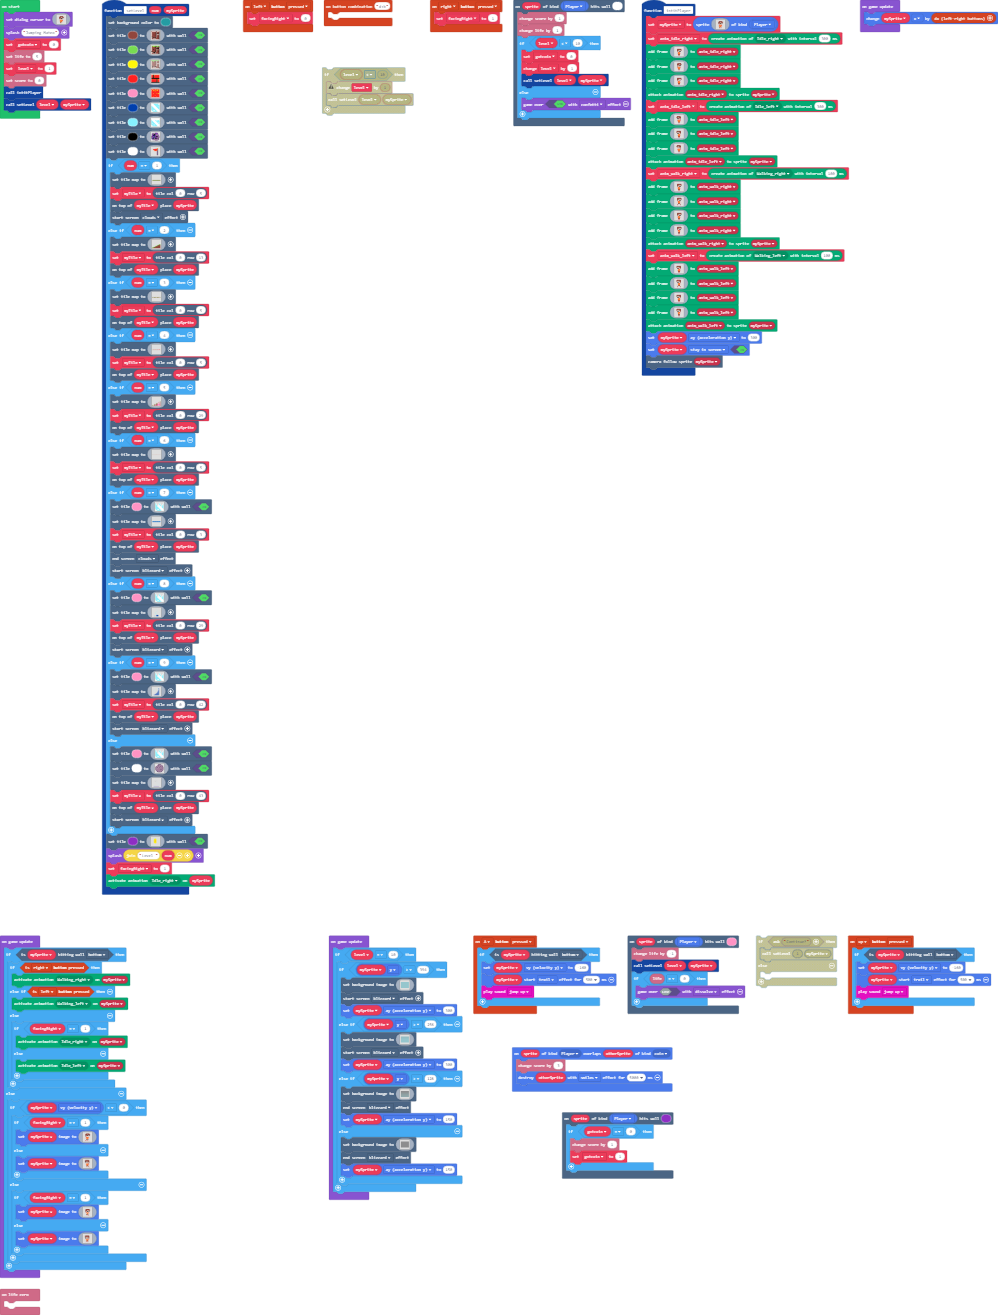
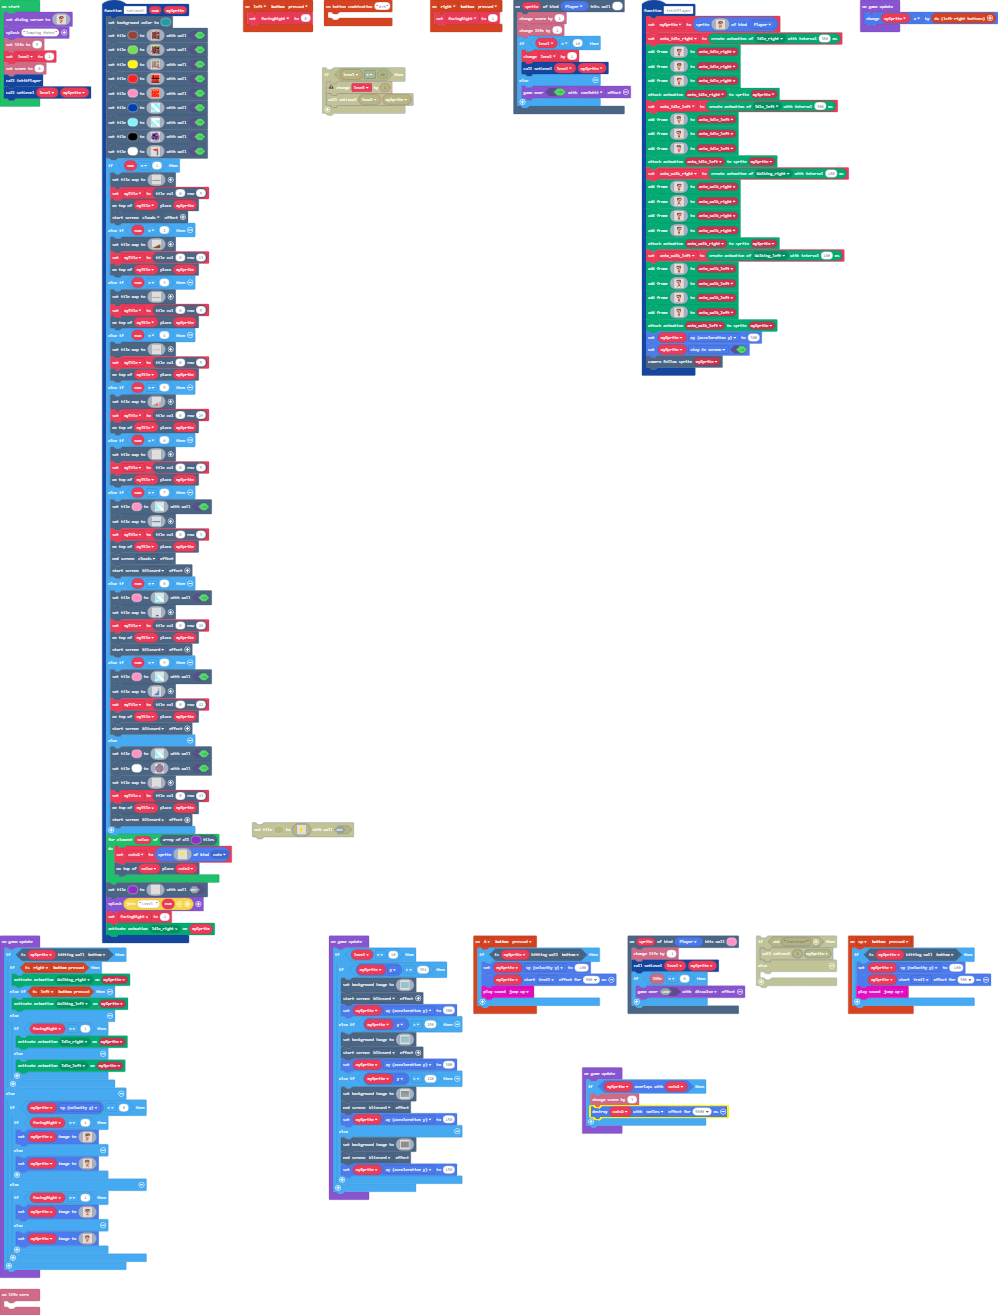
changed coin system now can add multiple coins

diff --git a/main.ts b/main.ts
@@ -543,24 +543,45 @@ c b b b b b b b b c b c b b b c
         myTile.place(mySprite)
         effects.blizzard.startScreenEffect()
     }
+    for (let value of scene.getTilesByType(10)) {
+        coin2 = sprites.create(img`
+. . . . . . . . . . . . . . . . 
+. . . . . . . . . . . . . . . . 
+. . . . . . . 5 . . . . . . . . 
+. . . . . . 5 5 5 . . . . . . . 
+. . . . . 5 5 5 5 5 . . . . . . 
+. . . . . 5 5 4 5 5 . . . . . . 
+. . . . . 5 5 4 5 5 . . . . . . 
+. . . . . 5 5 4 5 5 . . . . . . 
+. . . . . 5 5 4 5 5 . . . . . . 
+. . . . . 5 5 4 5 5 . . . . . . 
+. . . . . 5 5 5 5 5 . . . . . . 
+. . . . . . 5 5 5 . . . . . . . 
+. . . . . . . 5 . . . . . . . . 
+. . . . . . . . . . . . . . . . 
+. . . . . . . . . . . . . . . . 
+. . . . . . . . . . . . . . . . 
+`, SpriteKind.coin)
+        scene.place(value, coin2)
+    }
     scene.setTile(10, img`
 . . . . . . . . . . . . . . . . 
 . . . . . . . . . . . . . . . . 
-. . . . . . . 5 . . . . . . . . 
-. . . . . . 5 5 5 . . . . . . . 
-. . . . . 5 5 5 5 5 . . . . . . 
-. . . . . 5 5 4 5 5 . . . . . . 
-. . . . . 5 5 4 5 5 . . . . . . 
-. . . . . 5 5 4 5 5 . . . . . . 
-. . . . . 5 5 4 5 5 . . . . . . 
-. . . . . 5 5 4 5 5 . . . . . . 
-. . . . . 5 5 5 5 5 . . . . . . 
-. . . . . . 5 5 5 . . . . . . . 
-. . . . . . . 5 . . . . . . . . 
 . . . . . . . . . . . . . . . . 
 . . . . . . . . . . . . . . . . 
 . . . . . . . . . . . . . . . . 
-`, true)
+. . . . . . . . . . . . . . . . 
+. . . . . . . . . . . . . . . . 
+. . . . . . . . . . . . . . . . 
+. . . . . . . . . . . . . . . . 
+. . . . . . . . . . . . . . . . 
+. . . . . . . . . . . . . . . . 
+. . . . . . . . . . . . . . . . 
+. . . . . . . . . . . . . . . . 
+. . . . . . . . . . . . . . . . 
+. . . . . . . . . . . . . . . . 
+. . . . . . . . . . . . . . . . 
+`, false)
     game.splash("Level " + num)
     facingRight = 1
     animation.setAction(mySprite, ActionKind.Idle_right)
@@ -571,22 +592,12 @@ controller.left.onEvent(ControllerButtonEvent.Pressed, function () {
 controller.combos.attachCombo("d+b", function () {
 	
 })
-scene.onHitTile(SpriteKindLegacy.Player, 10, function (sprite) {
-    if (gotcoin == 0) {
-        info.changeScoreBy(1)
-        gotcoin = 1
-    }
-})
 scene.onHitTile(SpriteKindLegacy.Player, 3, function (sprite) {
     info.changeLifeBy(-1)
     setLevel(level, mySprite)
     if (info.life() == 0) {
         game.over(false, effects.dissolve)
     }
-})
-sprites.onOverlap(SpriteKind.Player, SpriteKind.coin, function (sprite, otherSprite) {
-    info.changeScoreBy(3)
-    otherSprite.destroy(effects.smiles, 5000)
 })
 controller.A.onEvent(ControllerButtonEvent.Pressed, function () {
     if (mySprite.isHittingTile(CollisionDirection.Bottom)) {
@@ -602,7 +613,6 @@ scene.onHitTile(SpriteKindLegacy.Player, 1, function (sprite) {
     info.changeScoreBy(1)
     info.changeLifeBy(1)
     if (level < 10) {
-        gotcoin = 0
         level += 1
         setLevel(level, mySprite)
     } else {
@@ -907,10 +917,10 @@ let anim_walk_right: animation.Animation = null
 let anim_idle_left: animation.Animation = null
 let anim_idle_right: animation.Animation = null
 let facingRight = 0
+let coin2: Sprite = null
 let myTile: tiles.Tile = null
 let mySprite: Sprite = null
 let level = 0
-let gotcoin = 0
 game.setDialogCursor(img`
 . . . . . . . . . . . . . . . . 
 . . . . . . . . . . . . . . . . 
@@ -930,7 +940,6 @@ game.setDialogCursor(img`
 . . . . . . 4 . . 4 . . . . . . 
 `)
 game.splash("Jumping Mateo")
-gotcoin = 0
 info.setLife(5)
 level = 1
 info.setScore(0)
@@ -1539,5 +1548,11 @@ f f f f f f f f f f f f f f f f f f f f f f f f f f f f f f f f f f f f f f f f 
             effects.blizzard.endScreenEffect()
             mySprite.ay = 150
         }
+    }
+})
+game.onUpdate(function () {
+    if (mySprite.overlapsWith(coin2)) {
+        info.changeScoreBy(3)
+        coin2.destroy(effects.smiles, 5000)
     }
 })
